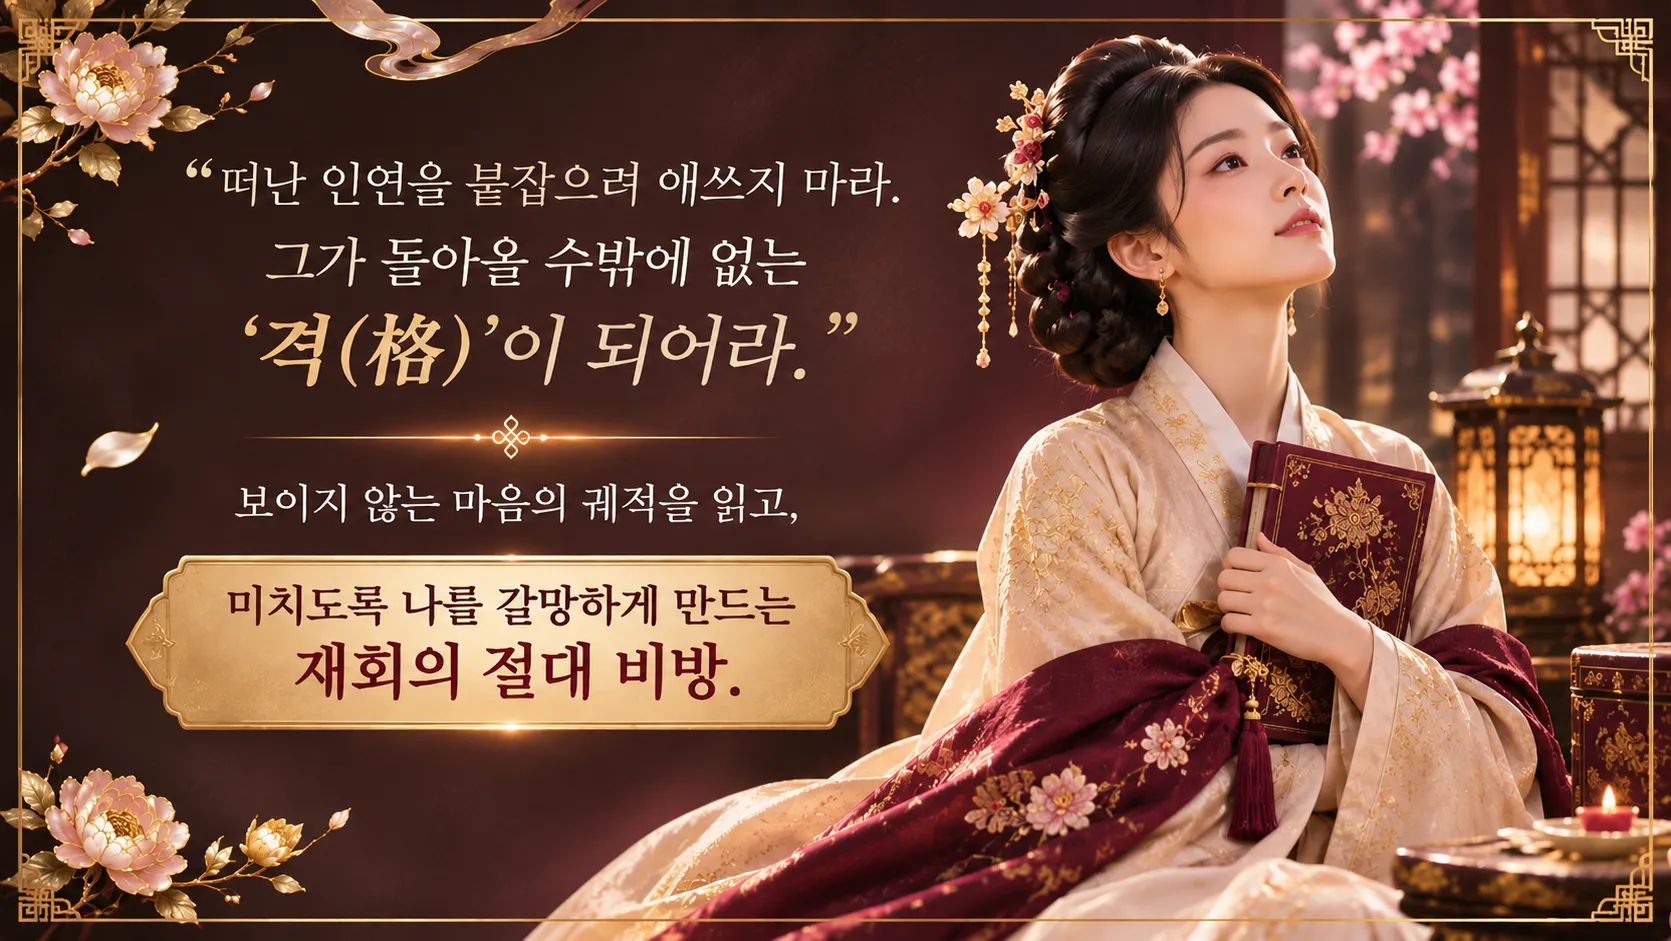
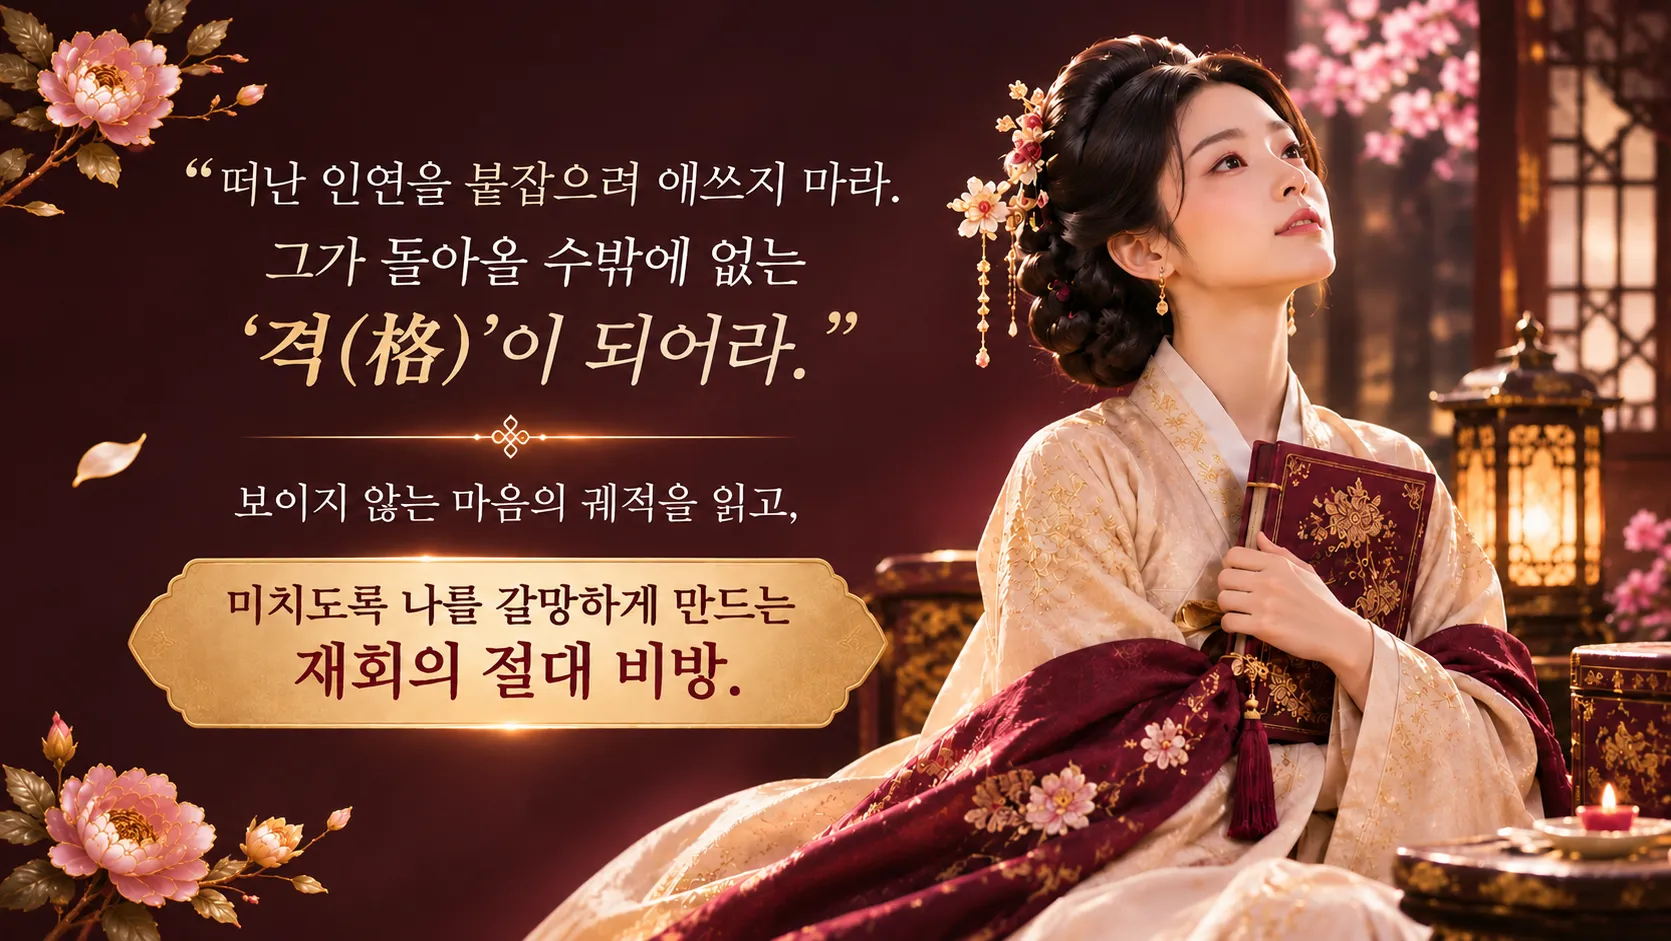
style: set hero title hanja to white and hangul to gold (#C2A477) matching abundance format

diff --git a/app/reports/reunion-secret/page.tsx b/app/reports/reunion-secret/page.tsx
@@ -480,8 +480,8 @@ export default function ReunionSecretPage() {
 
                 {/* 대제목 */}
                 <h1 className="text-4xl sm:text-5xl md:text-6xl font-elegant font-bold text-white tracking-tight mb-8 leading-tight">
-                  <span className="text-[#C2A477] font-normal mr-3">再會秘方</span>
-                  재회비방
+                  <span className="font-normal mr-3">再會秘方</span>
+                  <span className="text-[#C2A477]">재회비방</span>
                 </h1>
 
                 {/* 1. 최상단: 가로형 풀 이미지 (16:9 비율, 1280px 매칭) */}
